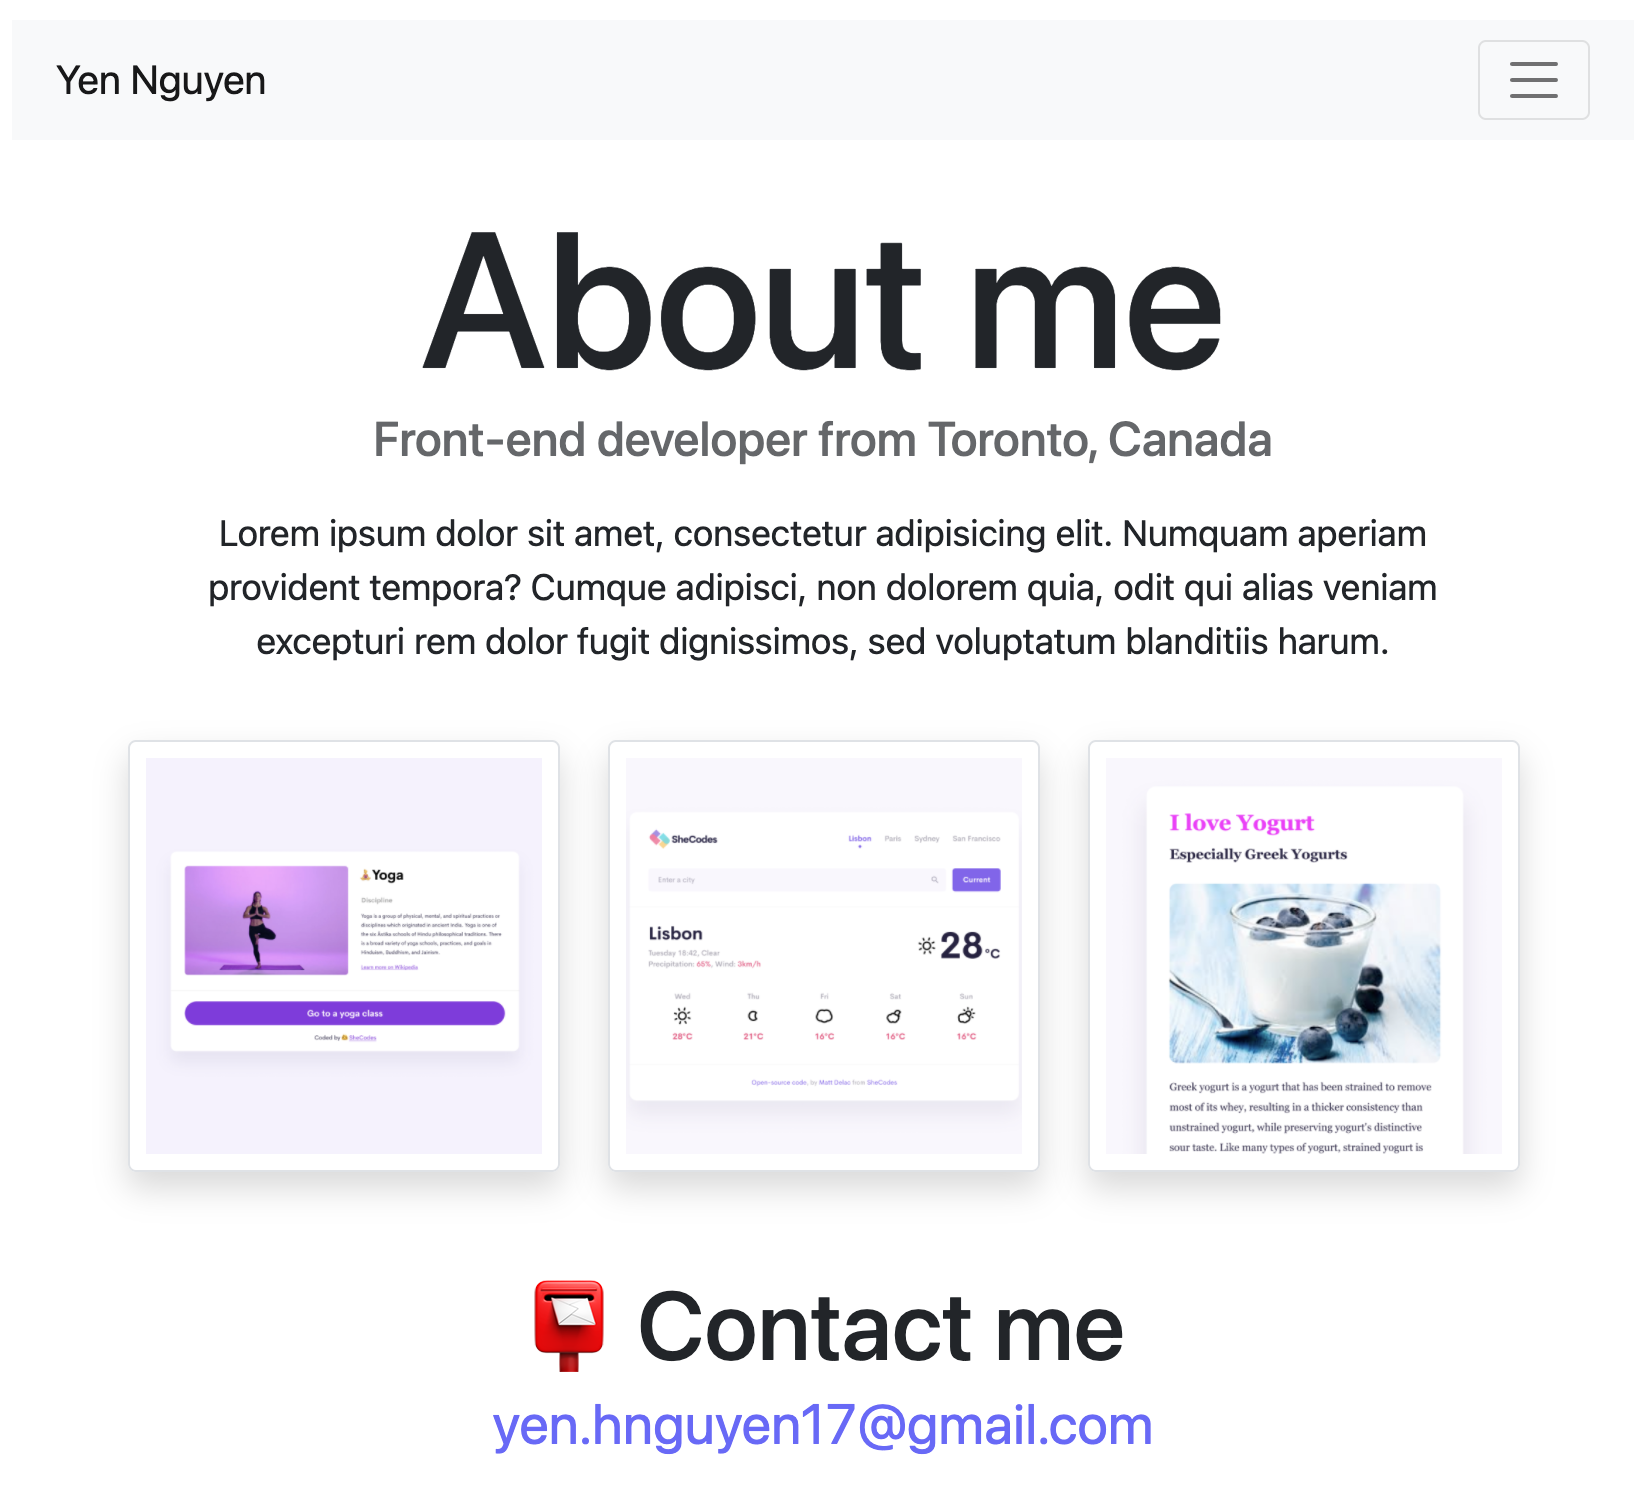
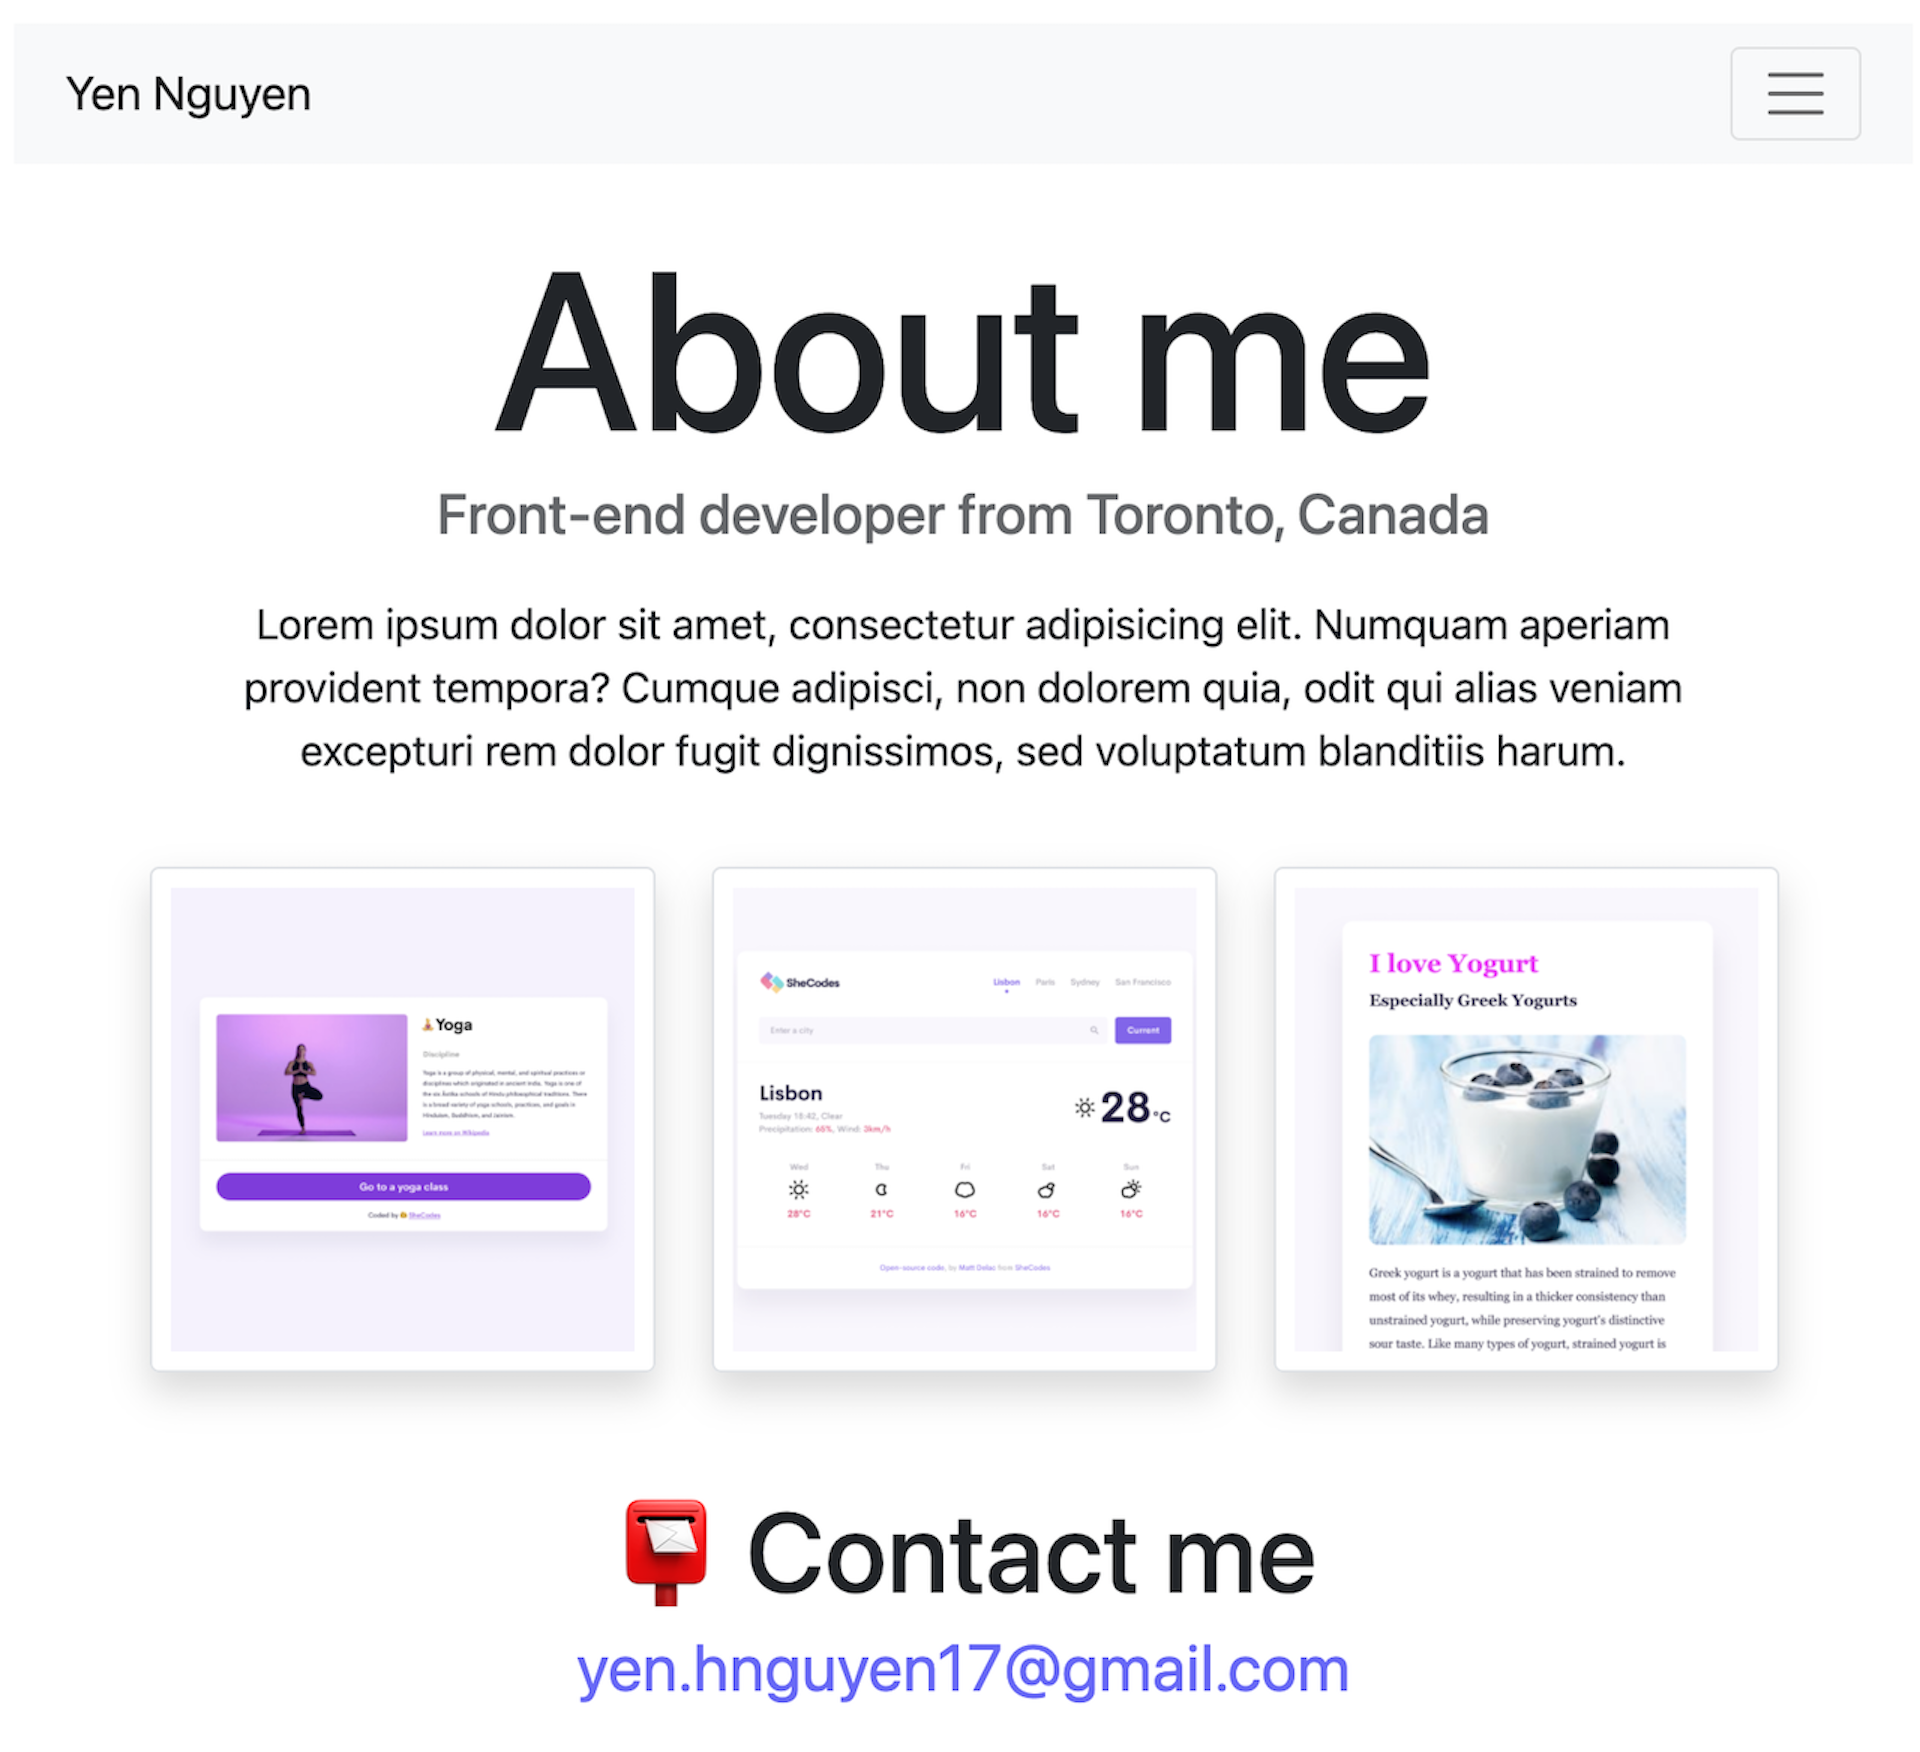
Fix images size and hide the overflow

diff --git a/index.html b/index.html
@@ -27,124 +27,130 @@
     ></script>
   </head>
   <body>
-    <nav class="navbar navbar-expand-lg navbar-light bg-light">
-      <div class="container-fluid ps-4 ps-4">
-        <a class="navbar-brand" href="/">YN</a>
-        <button
-          class="navbar-toggler"
-          type="button"
-          data-bs-toggle="collapse"
-          data-bs-target="#navbarNav"
-          aria-controls="navbarNav"
-          aria-expanded="false"
-          aria-label="Toggle navigation"
-        >
-          <span class="navbar-toggler-icon"></span>
-        </button>
-        <div class="collapse navbar-collapse" id="navbarNav">
-          <ul class="navbar-nav ms-auto">
-            <li class="nav-item">
-              <a class="nav-link active" aria-current="page" href="/">Home</a>
-            </li>
-            <li class="nav-item">
-              <a class="nav-link" href="/about.html">About</a>
-            </li>
-            <li class="nav-item">
-              <a class="nav-link" href="/projects.html">Projects</a>
-            </li>
-            <li class="nav-item">
-              <a class="nav-link" href="#footer">Contact</a>
-            </li>
-          </ul>
+    <div class="wrapper">
+      <nav class="navbar navbar-expand-lg navbar-light bg-light">
+        <div class="container-fluid ps-4 ps-4">
+          <a class="navbar-brand" href="/">YN</a>
+          <button
+            class="navbar-toggler"
+            type="button"
+            data-bs-toggle="collapse"
+            data-bs-target="#navbarNav"
+            aria-controls="navbarNav"
+            aria-expanded="false"
+            aria-label="Toggle navigation"
+          >
+            <span class="navbar-toggler-icon"></span>
+          </button>
+          <div class="collapse navbar-collapse" id="navbarNav">
+            <ul class="navbar-nav ms-auto">
+              <li class="nav-item">
+                <a class="nav-link active" aria-current="page" href="/">Home</a>
+              </li>
+              <li class="nav-item">
+                <a class="nav-link" href="/about.html">About</a>
+              </li>
+              <li class="nav-item">
+                <a class="nav-link" href="/projects.html">Projects</a>
+              </li>
+              <li class="nav-item">
+                <a class="nav-link" href="#footer">Contact</a>
+              </li>
+            </ul>
+          </div>
+        </div>
+      </nav>
+      <div class="homepage-hero">
+        <h1>Hi, my name is <span class="name">Yen Nguyen</span></h1>
+        <h3 class="opacity-75">I'm a Full Stack Developer, based in Toronto</h3>
+        <a href="#footer">Contact me</a>
+      </div>
+      <div class="about-me">
+        <h1 class="text-center pt-4 pb-3">About Me</h1>
+        <div class="container">
+          <div class="row">
+            <div class="col-md-6 col-sm-12 d-flex align-items-center pb-5">
+              <p class="about-me-paragraph">
+                Lorem ipsum dolor sit amet, consectetur adipiscing elit. Duis quis nibh mi. Sed
+                molestie sapien vel metus volutpat vestibulum. Morbi arcu metus, lobortis sed magna
+                quis, rhoncus dapibus justo.<br /><br />
+                <a href="/about.html">Learn more</a>
+              </p>
+            </div>
+            <div class="col-md-6 col-sm-12 d-flex justify-content-center">
+              <img
+                src="/images/my-photo.png"
+                alt="A picture of myself"
+                class="img-fluid rounded shadow-lg"
+                width="300px"
+                height="auto"
+              />
+            </div>
+          </div>
         </div>
       </div>
-    </nav>
-    <div class="homepage-hero">
-      <h1>Hi, my name is <span class="name">Yen Nguyen</span></h1>
-      <h3 class="opacity-75">I'm a Full Stack Developer, based in Toronto</h3>
-      <a href="#">Contact me</a>
+      <section class="languages-and-projects text-center mb-5">
+        <div class="languages-list">
+          <h1 class="pt-4 pb-3">I've worked with</h1>
+          <div class="language-icons d-flex justify-content-center pb-5">
+            <img src="/icons/html-icon.png" />
+            <img src="/icons/css-icon.png" />
+            <img src="/icons/javascript-icon.png" />
+            <img src="/icons/python-icon.png" />
+          </div>
+        </div>
+        <div class="projects-list container">
+          <div class="row">
+            <div class="col-lg-4 col-md-6 col-sm-12">
+              <a href="/projects.html"
+                ><img
+                  src="/images/paws-in-need.png"
+                  alt="Paws In Need Project"
+                  class="img-fluid border p-2 shadow-lg rounded m-2"
+              /></a>
+            </div>
+            <div class="col-lg-4 col-md-6 col-sm-12">
+              <a href="/projects.html"
+                ><img
+                  src="/images/weather-app.png"
+                  alt="Weather App"
+                  class="img-fluid border p-2 shadow-lg rounded m-2"
+              /></a>
+            </div>
+            <div class="col-lg-4 col-md-12 col-sm-12">
+              <a href="/projects.html"
+                ><img
+                  src="/images/about-me-web.png"
+                  alt="About Me Wesbite"
+                  class="img-fluid border p-2 shadow-lg rounded m-2"
+              /></a>
+            </div>
+          </div>
+        </div>
+        <div class="m-5">
+          <a href="/projects.html" class="see-more-button">See More</a>
+        </div>
+      </section>
+      <section class="contact-me">
+        <div class="text-center">
+          <h1 class="mt-10">Get In Touch</h1>
+          <p class="mb-5 opacity-50">Have questions or want to work together</p>
+          <a href="mailto:yen.hnguyen17@gmail.com">Email Me</a>
+        </div>
+      </section>
+      <footer id="footer">
+        <div class="container text-center">
+          <div class="arrow-up">
+            <a href="#top"><i class="fas fa-caret-up fa-2x text-white"></i></a>
+          </div>
+          <div class="d-flex justify-content-center social-media">
+            <i class="fab fa-linkedin fa-3x text-white"></i>
+            <i class="fab fa-github fa-3x text-white"></i>
+            <i class="fab fa-instagram fa-3x text-white"></i>
+            <i class="fab fa-facebook fa-3x text-white"></i>
+          </div>
+        </div>
+      </footer>
     </div>
-    <div class="about-me">
-      <h1 class="text-center pt-4 pb-3">About Me</h1>
-      <div class="container">
-        <div class="row">
-          <div class="col-md-6 col-sm-12 d-flex align-items-center pb-5">
-            <p class="">
-              Lorem ipsum dolor sit amet, consectetur adipiscing elit. Duis quis nibh mi. Sed
-              molestie sapien vel metus volutpat vestibulum. Morbi arcu metus, lobortis sed magna
-              quis, rhoncus dapibus justo.<br /><br />
-              <a href="#">Learn more</a>
-            </p>
-          </div>
-          <div class="col-md-6 col-sm-12 d-flex justify-content-center">
-            <img
-              src="/images/my-photo.png"
-              class="img-fluid rounded shadow-lg"
-              width="300px"
-              height="auto"
-            />
-          </div>
-        </div>
-      </div>
-    </div>
-    <section class="languages-and-projects text-center mb-5">
-      <div class="languages-list">
-        <h1 class="pt-4 pb-3">I've worked with</h1>
-        <div class="language-icons d-flex justify-content-center pb-5">
-          <img src="/icons/html-icon.png" />
-          <img src="/icons/css-icon.png" />
-          <img src="/icons/javascript-icon.png" />
-          <img src="/icons/python-icon.png" />
-        </div>
-      </div>
-      <div class="projects-list container">
-        <div class="row">
-          <div class="col-lg-4 col-md-6 col-sm-12">
-            <a href="/projects.html"
-              ><img
-                src="/images/Paws-In-Need.png"
-                class="project-img img-fluid border p-2 shadow-lg rounded m-3"
-            /></a>
-          </div>
-          <div class="col-lg-4 col-md-6 col-sm-12">
-            <a href="/projects.html"
-              ><img
-                src="/images/weather-app.png"
-                class="project-img img-fluid border p-2 shadow-lg rounded m-3"
-            /></a>
-          </div>
-          <div class="col-lg-4 col-md-12 col-sm-12">
-            <a href="/projects.html"
-              ><img
-                src="/images/about-me-web.png"
-                class="project-img img-fluid border p-2 shadow-lg rounded m-3"
-            /></a>
-          </div>
-        </div>
-      </div>
-      <div class="m-5">
-        <a href="/projects.html" class="see-more-button">See More</a>
-      </div>
-    </section>
-    <section class="contact-me">
-      <div class="text-center">
-        <h1 class="mt-10">Get In Touch</h1>
-        <p class="mb-5 opacity-50">Have questions or want to work together</p>
-        <a href="mailto:yen.hnguyen17@gmail.com">Email Me</a>
-      </div>
-    </section>
-    <footer id="footer">
-      <div class="container text-center">
-        <div class="arrow-up">
-          <a href="#top"><i class="fas fa-caret-up fa-2x text-white"></i></a>
-        </div>
-        <div class="d-flex justify-content-center social-media">
-          <i class="fab fa-linkedin fa-3x text-white"></i>
-          <i class="fab fa-github fa-3x text-white"></i>
-          <i class="fab fa-instagram fa-3x text-white"></i>
-          <i class="fab fa-facebook fa-3x text-white"></i>
-        </div>
-      </div>
-    </footer>
   </body>
 </html>

diff --git a/css/styles.css b/css/styles.css
@@ -12,6 +12,10 @@ body {
   font-family: var(--main-font-family);
 }
 
+.wrapper {
+  overflow-x: hidden;
+}
+
 .homepage-hero {
   background: var(--secondary-color);
   font-family: var(--main-font-family);
@@ -67,6 +71,11 @@ h3 {
   margin: 20px;
 }
 
+.projects-list img {
+  width: auto;
+  height: 350px;
+}
+
 .see-more-button {
   border: var(--main-button-border);
   padding: var(--button-padding);
@@ -77,15 +86,11 @@ h3 {
   font-weight: 600;
 }
 
-.project-img {
-  width: 400px;
-  height: 350px;
-}
-
 .contact-me {
   background-color: var(--main-color);
   clip-path: polygon(0 0, 100% 20%, 100% 100%, 0 100%);
-  padding: 120px;
+  padding-top: 120px;
+  padding-bottom: 120px;
   color: var(--secondary-color);
 }
 
@@ -106,4 +111,39 @@ footer {
 
 .social-media i {
   margin: 20px;
+}
+
+@media (max-width: 768px) {
+  .about-me,
+  .contact-me {
+    clip-path: none;
+  }
+}
+
+@media (max-width: 576px) {
+  .about-me-paragraph {
+    text-align: center;
+  }
+  h1 {
+    font-size: 30px;
+  }
+  .name {
+    font-size: 40px;
+  }
+  .homepage-hero a,
+  .about-me a {
+    font-size: 15px;
+  }
+  .languages-list img {
+    width: 50px;
+    margin: 10px;
+  }
+  .social-media i {
+    font-size: 1.5em;
+    margin: 10px;
+  }
+  .contact-me {
+    padding-top: 70px;
+    padding-bottom: 70px;
+  }
 }
